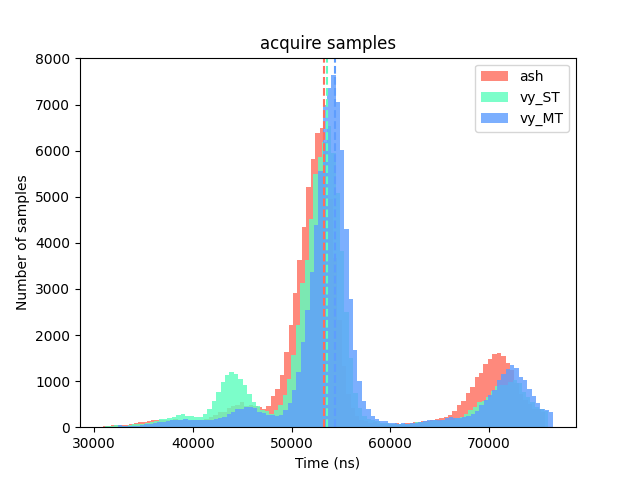
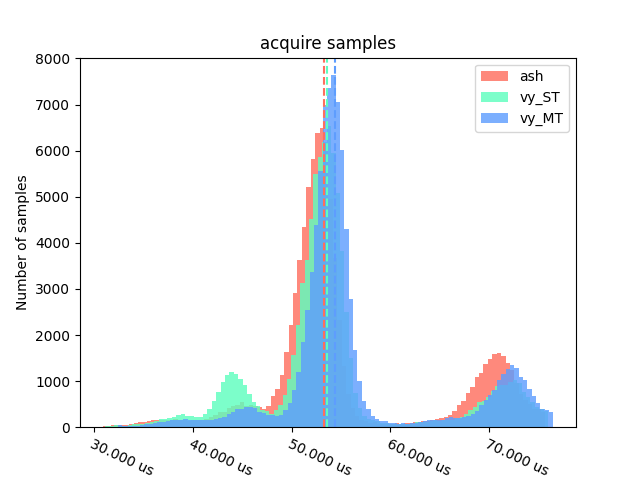
update graph labels and styles

diff --git a/codes/teapot-benches/benches/script/__main__.py b/codes/teapot-benches/benches/script/__main__.py
@@ -1,9 +1,10 @@
 import sys
-from dataclasses import dataclass
+import time
 
 import numpy as np
 import matplotlib
 import matplotlib.pyplot as plt
+import matplotlib.ticker as ticker
 
 STAGE_FILTER = [
 	True,
@@ -135,9 +136,9 @@ def reject_outliers(data):
 
 ## PLOTTING ##
 def format_time(nano_seconds):
-	nanos = round(nano_seconds % 1**3)
-	micros = round(nano_seconds / 10**3 % 10**6)
-	millis = round(nano_seconds / 10**6 % 10**9)
+	nanos = round(nano_seconds) % 1**3
+	micros = round(nano_seconds / 10**3) % 10**3
+	millis = round(nano_seconds / 10**6) % 10**3
 	seconds = round(nano_seconds / 10**9)
 
 	if seconds > 0:
@@ -186,6 +187,13 @@ def plot_averages(averages, names, colors, title = None):
 	ax.set_xticklabels(STAGE_LABELS)
 	ax.legend()
 
+	plt.setp(
+		ax.xaxis.get_majorticklabels(),
+		rotation = -25,
+		ha = "left",
+		rotation_mode = "anchor"
+	)
+
 	plt.savefig(f"{WORK_FOLDER}/graphs/bars.png")
 
 def plot_histograms(stages, names, colors, title = None, bins = 100):
@@ -223,9 +231,21 @@ def plot_histograms(stages, names, colors, title = None, bins = 100):
 		# )
 
 	ax.set_title(title)
-	ax.set_xlabel("Time (ns)")
+	ax.set_xlabel("Times")
 	ax.set_ylabel("Number of samples")
 	ax.legend()
+
+	ax.xaxis.set_major_formatter(
+		ticker.FuncFormatter(
+			lambda x, pos: format_time(x)
+		)
+	)
+	plt.setp(
+		ax.xaxis.get_majorticklabels(),
+		rotation = -25,
+		ha = "left",
+		rotation_mode = "anchor"
+	)
 
 	plt.savefig(f"{WORK_FOLDER}/graphs/{title}_hist.png")
 	# plt.show()
@@ -239,9 +259,13 @@ def plot_histograms_helper(datas, index):
 	)
 
 def main():
+	before_load = time.perf_counter()
 	ash_datas = read_input(f"{WORK_FOLDER}/raw_ash.txt")
 	vy_ST_datas = read_input(f"{WORK_FOLDER}/raw_vulkayes_ST.txt")
 	vy_MT_datas = read_input(f"{WORK_FOLDER}/raw_vulkayes_MT.txt")
+	after_load = time.perf_counter()
+
+	print(f"Loading took {after_load - before_load:.3f}s\n", file = sys.stderr)
 
 	ash_averages = compute_averages(ash_datas[1000:])
 	vy_ST_averages = compute_averages(vy_ST_datas[1000:])
